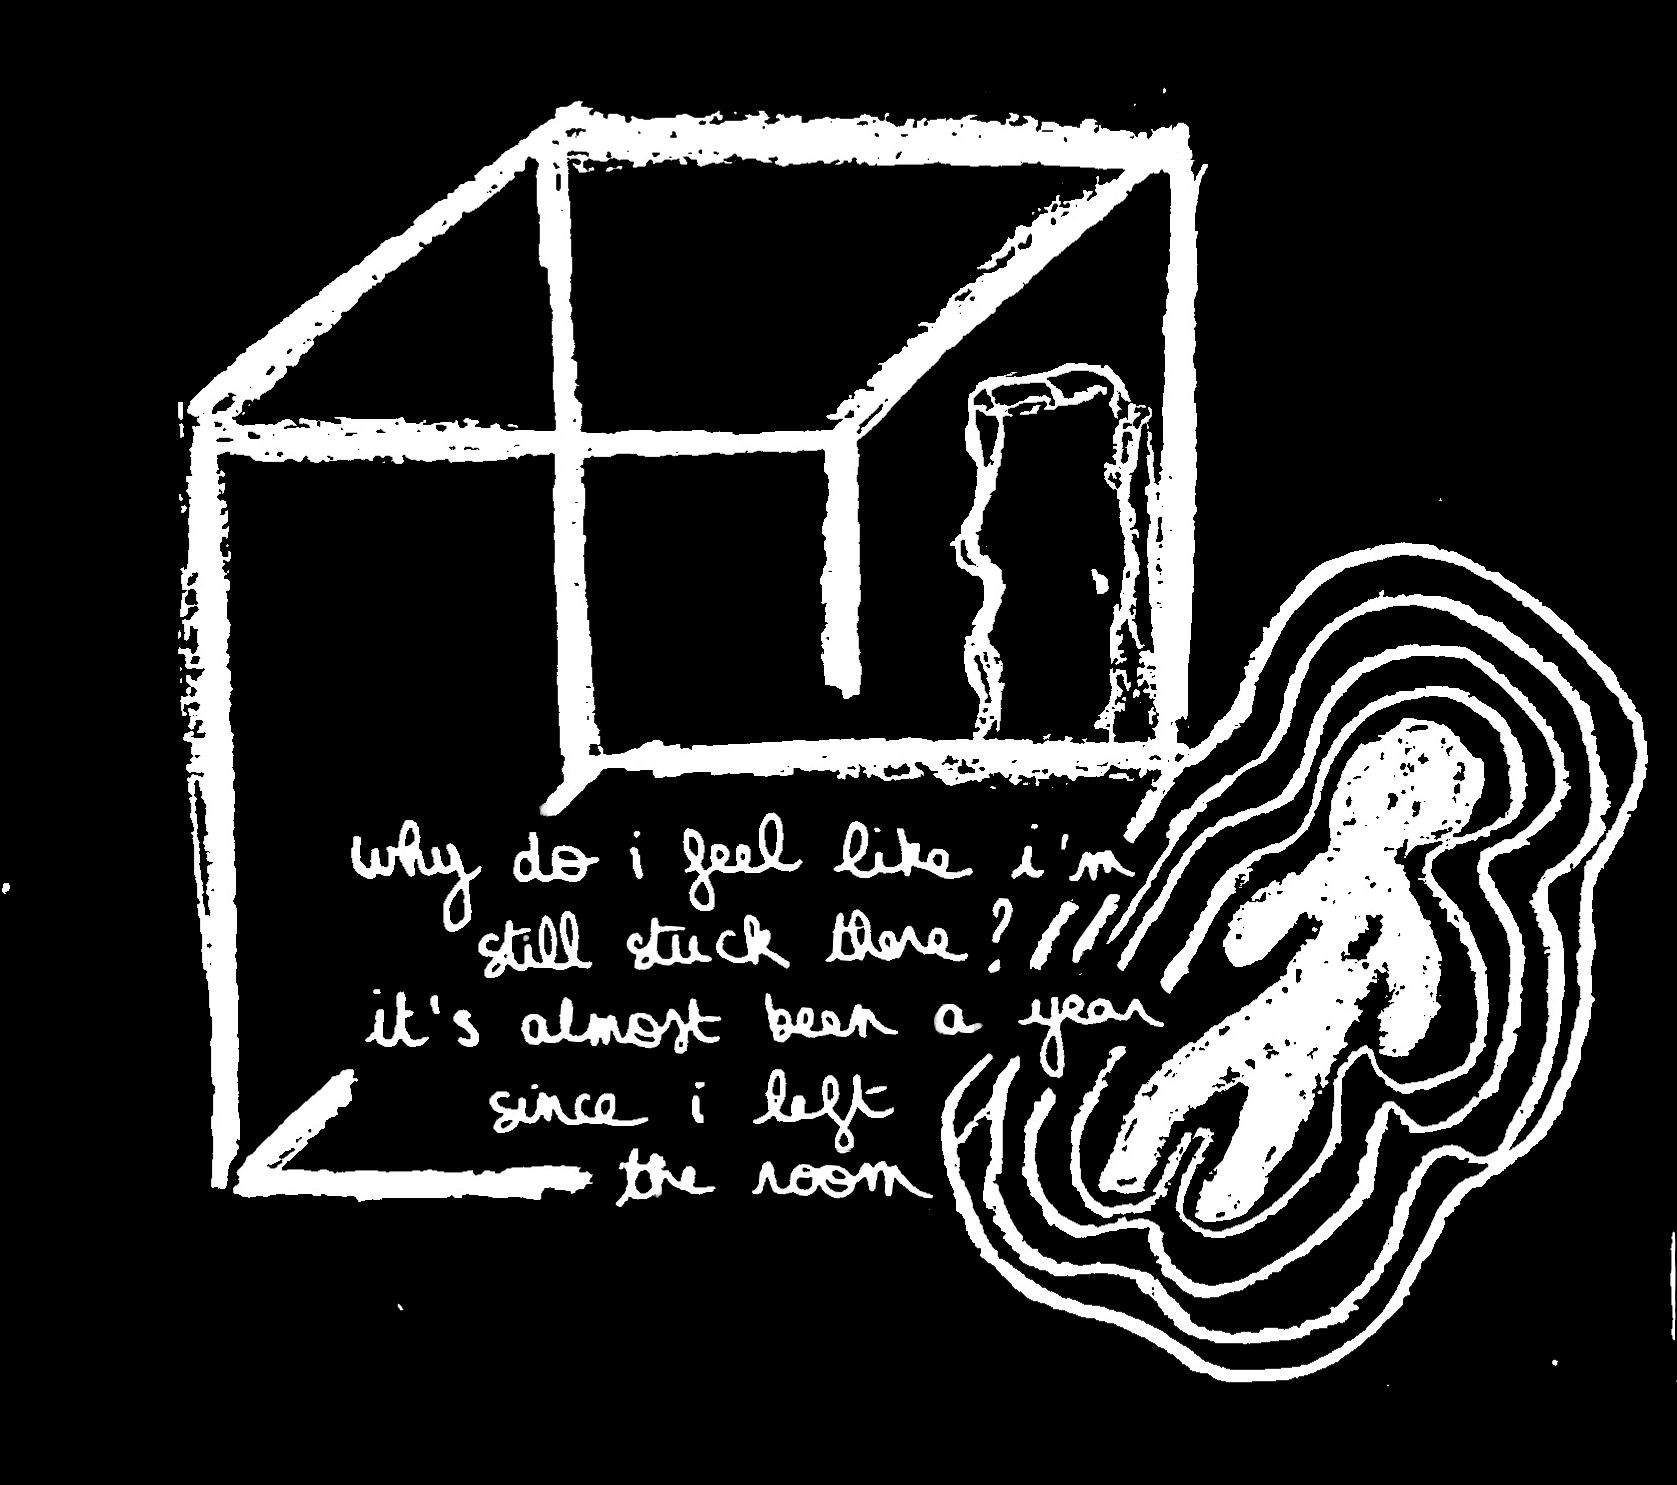
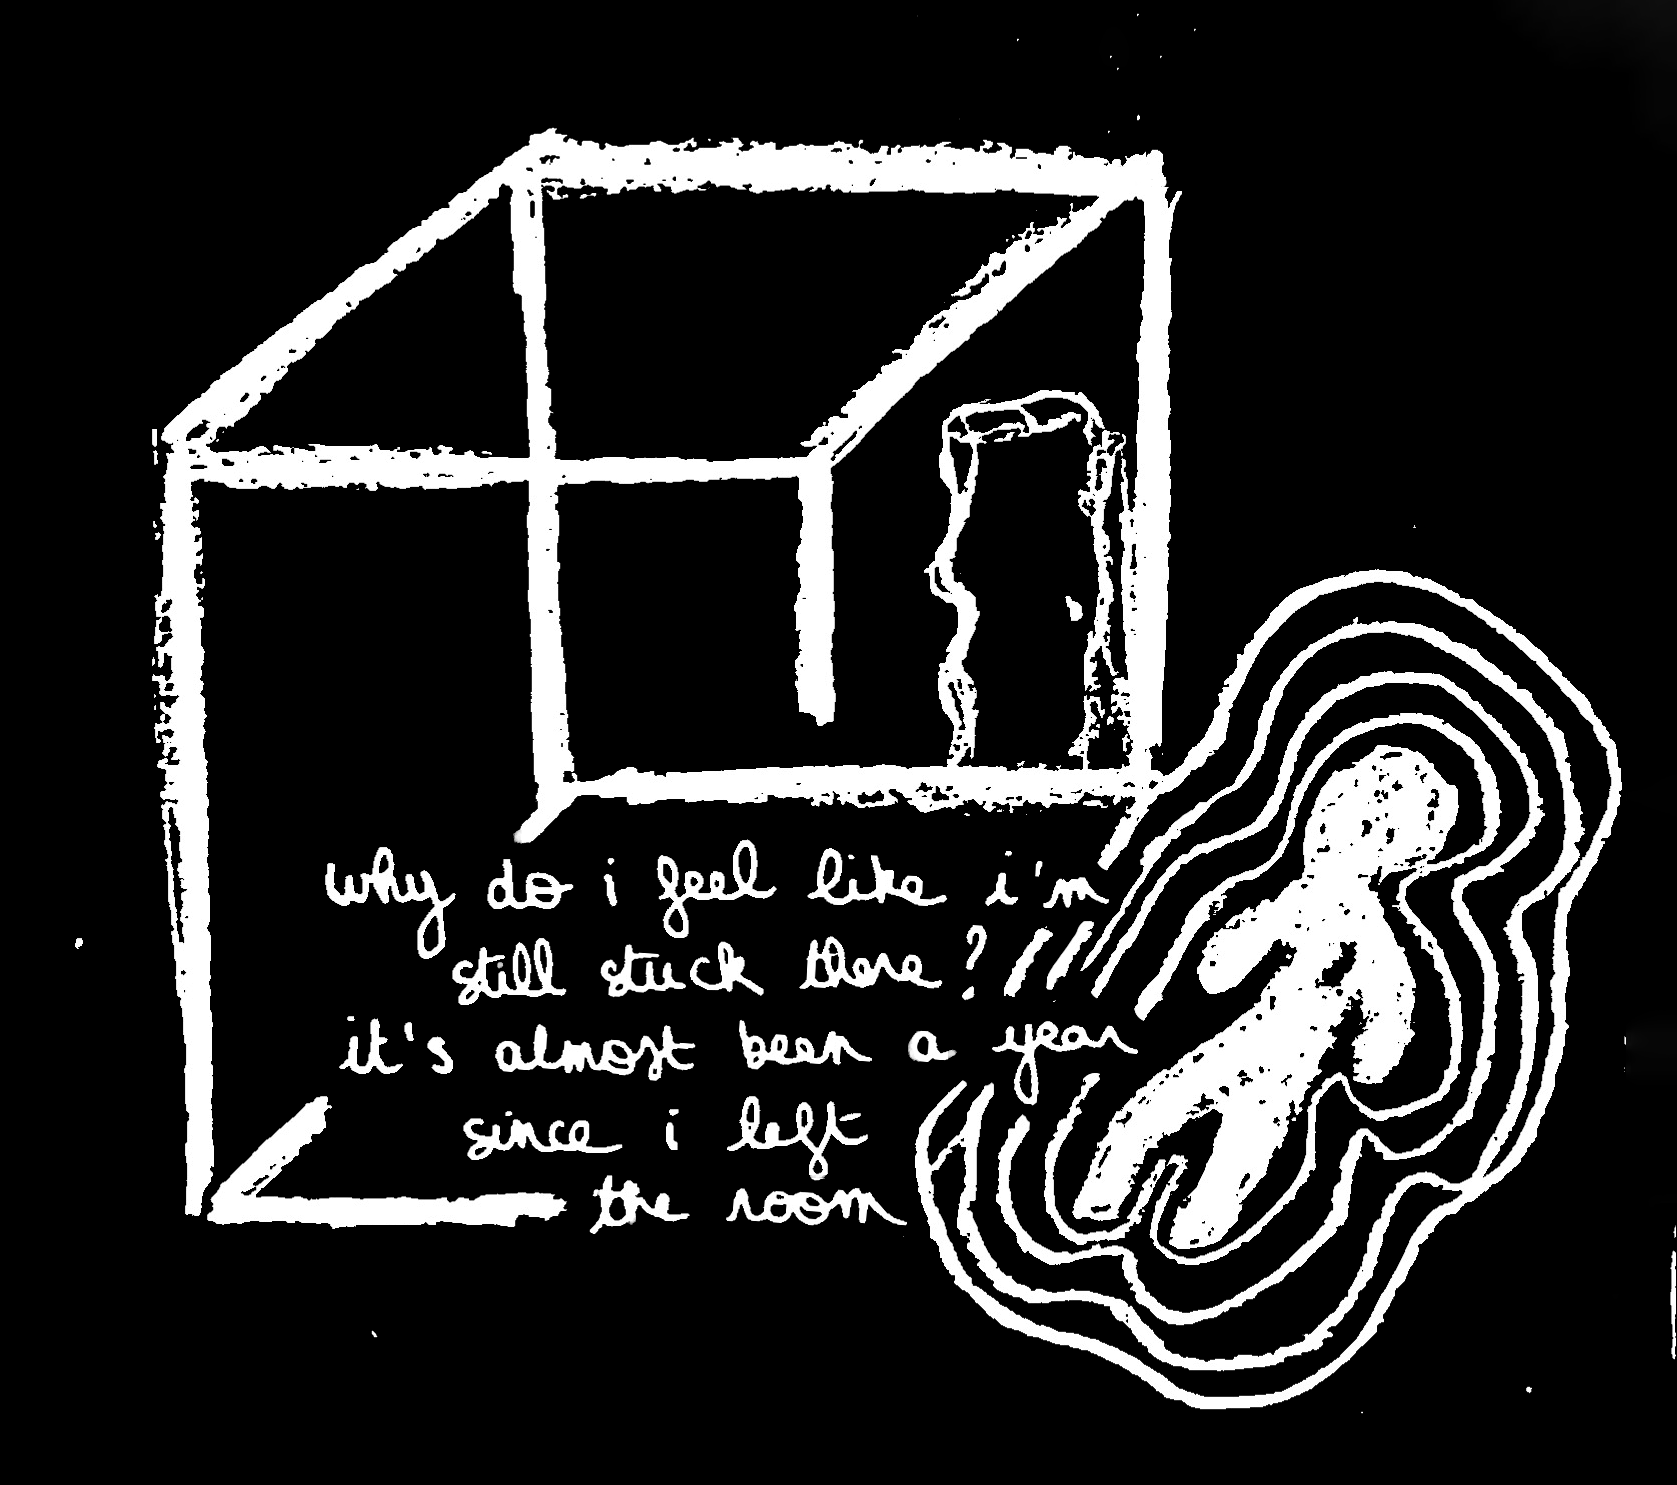
fix height img + poems

diff --git a/src/pages/pages-categories/artistique/projet-art.html b/src/pages/pages-categories/artistique/projet-art.html
@@ -124,9 +124,11 @@
                 jamais arrêtée, le théâtre de mes sentiments reprend.<br>
             </p>
         </div>
-        <div class="poeme-visuels">
+    </div>
+    
+    <div class="visuels">
             <img class="poeme-img" src="../../../assets/imgs/projects/poemes/still.png" alt="Still">
-        </div>
+            <img class="poeme-img" src="../../../assets/imgs/projects/poemes//toy-bn.png" alt="Toy">
     </div>
 
     <h2>Le Voilier Noir</h2>
@@ -145,7 +147,6 @@
         <div class="results">
             <img src="../../../assets/imgs/projects/voilier-noir/bruler.png" alt="Voilier noir">
             <img src="../../../assets/imgs/projects/voilier-noir/feu.png" alt="Voilier noir">
-            <img src="../../../assets/imgs/projects/voilier-noir/logos.png" alt="Logos">
         </div>
 
         <p>Nous sommes en pleine refonte de la charte graphique, ce qui m'amène à apprendre de nouveaux logiciels :<br>
@@ -154,6 +155,7 @@
         </p>
         <img class="project-img" src="../../../assets/imgs/projects/voilier-noir/modele.png" alt="Modele">
         <img class="project-img" src="../../../assets/imgs/projects/voilier-noir/voilier-wip.png" alt="Voilier WIP">
+        <img class="project-img" src="../../../assets/imgs/projects/voilier-noir/logos.png" alt="Logos">
     </div>
 
     <a id="ancre" href="#btnProject">&uarr; Retour en haut</a>

diff --git a/src/styles/styles-art.css b/src/styles/styles-art.css
@@ -69,13 +69,25 @@ h3 {
     max-width: 25%;
 }
 
-.poeme-img {
-    max-width: 30%;
-    height: auto;
-    display: block;
+.visuels {
+    display: flex;
+    flex-direction: row;
+    flex-wrap: wrap;
+    justify-content: center;
+    width: 80%;
     margin-left: auto;
     margin-right: auto;
-    border: 5px solid #381540;
+    gap: 1rem;
+
+}
+
+.poeme-img {
+    border: 4px solid rgb(46, 0, 132);
+    margin: 5px;
+    height: 200px;
+    width: auto;
+    object-fit: cover;
+    transition: transform 0.3s;
 }
 
 .poeme-img:hover {
@@ -114,12 +126,13 @@ h3 {
     display: flex;
     flex-wrap: wrap;
     justify-content: center;
+    gap: 1rem;
 }
 
 .results img {
-    margin: 1rem;
-    max-height: 200px;
-    width: auto;
+    max-width: 20%;
+    height: auto;
+    transition: transform 0.3s;
 }
 
 #ancre {
@@ -164,6 +177,6 @@ h3 {
         font-size: var(--font-size-xxsmall);
     }
     .poeme-img {
-        max-width: 60%;
+        max-width: 70%;
     }
 }
